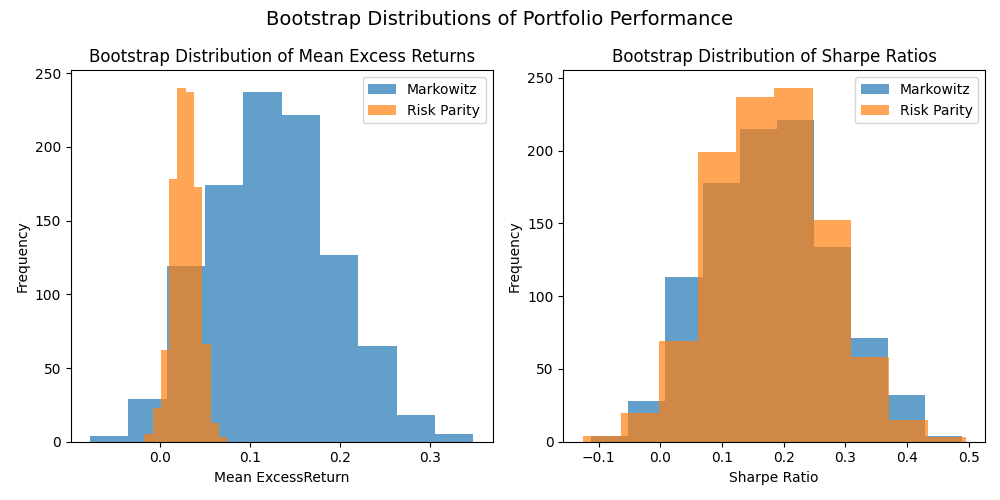
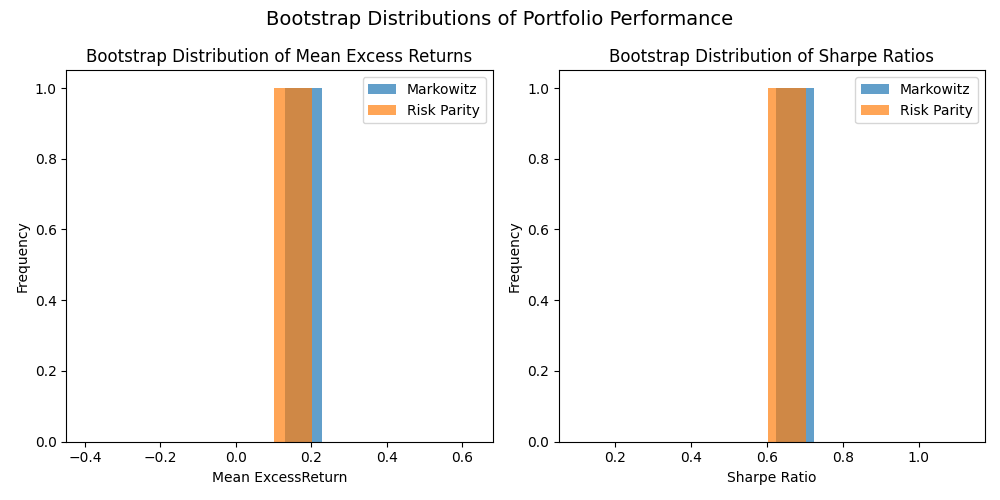
small changes

diff --git a/bootstrap_strategies.py b/bootstrap_strategies.py
@@ -8,13 +8,22 @@ from risk_parity import risk_parity
 
 from markowitz import markowitz_historical, returns_to_value
 
-EU_data = pd.read_csv("csv_files/EXPORT EU EUR.csv")
+allow_short = False
+
+EU_data = pd.read_csv("csv_files/long_EXPORT EU EUR.csv")
+
+US_data = pd.read_csv("csv_files/long_EXPORT US EUR.csv")
+
+if allow_short:
+    EU_data = pd.read_csv("csv_files/EXPORT EU EUR.csv")
+
+    US_data = pd.read_csv("csv_files/EXPORT US EUR.csv")
 
 def annualizer(mean_return, type, periods_per_year = 12):
     if type == "return":
         return (1 + mean_return/100) ** periods_per_year - 1
     if type == "volatility":
-        return mean_return * periods_per_year
+        return mean_return/100 * np.sqrt(periods_per_year)
 
 
 def block_bootstrap(df, n_bootstrap=1000, block_length=12, random_state=None):
@@ -36,49 +45,87 @@ def block_bootstrap(df, n_bootstrap=1000, block_length=12, random_state=None):
 
 # Assuming your previous setup & functions (block_bootstrap, markowitz_historical, risk_parity) are defined
 
-n_bootstrap = 1000
-boot_samples = block_bootstrap(EU_data, n_bootstrap=n_bootstrap, block_length=12, random_state=42)
+# -------- Set parameters -------
 
-mean_markowitz, variance_markowitz, sharpe_markowitz = [], [], []
-mean_risk_parity, variance_risk_parity, sharpe_risk_parity = [], [], []
+n_bootstrap = 300
 
 window = 36
-n_points = 3
-factors = True, True, True
+n_points = 10
+include_US = True
+
+# --------------------------------
+
+boot_EU = block_bootstrap(EU_data, n_bootstrap=n_bootstrap, block_length=12, random_state=42)
+
+boot_US = block_bootstrap(US_data, n_bootstrap=n_bootstrap, block_length=12, random_state=42)
+
+mean_markowitz, std_markowitz, sharpe_markowitz = [], [], []
+mean_risk_parity, std_risk_parity, sharpe_risk_parity = [], [], []
+mean_market, std_market, sharpe_market = [], [], []
+
 
 for i in range(n_bootstrap):
     print(f"Processing bootstrap sample {i+1}/{n_bootstrap}", end='\r')
 
-    portfolios = list(boot_samples[i].columns[5:36])
-    marko_data = boot_samples[i][portfolios]    
-    marko_returns = markowitz_historical(marko_data, window, n_points=n_points)
+    portfolios = list(boot_EU[i].columns[5:36])
+    EU_marko = boot_EU[i][portfolios]   
+    US_marko = boot_US[i][portfolios] 
 
-    rp_returns = risk_parity(boot_samples[i], window, *factors)['return']
+    if include_US:
+        marko_data = pd.concat([EU_marko,US_marko],axis = 1)
+    
+    if not include_US:
+        marko_data = EU_marko
+
+    marko_returns = markowitz_historical(marko_data, window, n_points=n_points, allow_short= allow_short)
+
+    rp_returns = risk_parity(boot_EU[i],boot_US[i], "EU", "US", window = window, include_market2 = include_US,
+                             has_MOM1 = True,has_SMB1 = True,has_RM_RF1 = True, has_MOM2 = include_US, has_SMB2 = include_US, has_RM_RF2 = include_US)['return']
+
+
+    market_returns = boot_EU[i]['RM_RF']
 
     # --- Markowitz ---
     mean_markowitz.append(annualizer(np.mean(marko_returns), type="return"))
-    variance_markowitz.append(annualizer(np.var(marko_returns), type="volatility"))
-    sharpe_markowitz.append(np.mean(marko_returns) / np.std(marko_returns))
+    std_markowitz.append(annualizer(np.std(marko_returns), type="volatility"))
 
     # --- Risk Parity ---
     mean_risk_parity.append(annualizer(np.mean(rp_returns), type="return"))
-    variance_risk_parity.append(annualizer(np.var(rp_returns), type="volatility"))
-    sharpe_risk_parity.append(np.mean(rp_returns) / np.std(rp_returns))
+    std_risk_parity.append(annualizer(np.std(rp_returns), type="volatility"))
+
+    # --- Market ---
+    mean_market.append(annualizer(np.mean(market_returns), type="return"))
+    std_market.append(annualizer(np.std(market_returns), type="volatility"))
+
+    
+
+sharpe_markowitz = np.array(mean_markowitz)/np.array(std_markowitz)
+
+sharpe_risk_parity = np.array(mean_risk_parity)/np.array(std_risk_parity)
+
+sharpe_market = np.array(mean_market)/np.array(std_market)
+
+if allow_short:
+    print("Shorting was allowed")
+
+if not allow_short:
+    print("Shorting was not allowed")
+
 
 # --- Summary Table ---
 summary_df = pd.DataFrame({
-    "Strategy": ["Markowitz", "Risk Parity"],
-    "Mean Excess Return (annualized)": [np.mean(mean_markowitz), np.mean(mean_risk_parity)],
-    "Variance": [np.mean(variance_markowitz), np.mean(variance_risk_parity)],
-    "Sharpe Ratio": [np.mean(sharpe_markowitz), np.mean(sharpe_risk_parity)]
+    "Strategy": ["Markowitz", "Risk Parity", "European Market"],
+    "Mean Excess Return": [np.mean(mean_markowitz), np.mean(mean_risk_parity), np.mean(mean_market)],
+    "Standard deviation": [np.mean(std_markowitz), np.mean(std_risk_parity), np.mean(std_market)],
+    "Sharpe Ratio": [np.mean(sharpe_markowitz), np.mean(sharpe_risk_parity), np.mean(sharpe_market)]
 })
 
 # --- Pretty Formatting ---
-summary_df["Mean Return"] = summary_df["Mean Excess Return (annualized)"].map("{:.6f}".format)
-summary_df["Variance"] = summary_df["Variance"].map("{:.6f}".format)
+summary_df["Mean Excess Return"] = summary_df["Mean Excess Return"].map("{:.6f}".format)
+summary_df["Standard deviation"] = summary_df["Standard deviation"].map("{:.6f}".format)
 summary_df["Sharpe Ratio"] = summary_df["Sharpe Ratio"].map("{:.3f}".format)
 
-print("\nBootstrap Portfolio Performance Summary")
+print("\nBootstrap Portfolio Performance Summary (annualized)")
 print(summary_df.to_string(index=False))
 
 
@@ -110,7 +157,7 @@ axes[1].legend()
 plt.suptitle("Bootstrap Distributions of Portfolio Performance", fontsize=14)
 plt.tight_layout()
 plt.savefig("bootstrap_histograms.png")
-plt.show()
+#plt.show()
 
 
 
@@ -120,16 +167,29 @@ plt.show()
 fig, axes = plt.subplots(1, 2, figsize=(10, 5))
 
 # Mean returns boxplot
-axes[0].boxplot([mean_markowitz, mean_risk_parity], labels=["Markowitz", "Risk Parity"])
+boxplot_kwargs = {}
+try:
+    # Matplotlib 3.9+ uses 'tick_labels'
+    axes[0].boxplot.__call__
+    boxplot_kwargs['tick_labels'] = ["Markowitz", "Risk Parity"]
+except Exception:
+    # Fallback for older Matplotlib versions
+    boxplot_kwargs['labels'] = ["Markowitz", "Risk Parity"]
+axes[0].boxplot([mean_markowitz, mean_risk_parity], **boxplot_kwargs)
 axes[0].set_title("Distribution of Mean Excess Returns")
 axes[0].set_ylabel("Mean ExcessReturn")
 
 # Variance boxplot
-axes[1].boxplot([sharpe_markowitz, sharpe_risk_parity], labels=["Markowitz", "Risk Parity"])
+boxplot_kwargs = {}
+try:
+    boxplot_kwargs['tick_labels'] = ["Markowitz", "Risk Parity"]
+except Exception:
+    boxplot_kwargs['labels'] = ["Markowitz", "Risk Parity"]
+axes[1].boxplot([sharpe_markowitz, sharpe_risk_parity], **boxplot_kwargs)
 axes[1].set_title("Distribution of Sharpe Ratios")
 axes[1].set_ylabel("Sharpe Ratio")
 
-plt.suptitle("Bootstrap Distributions of Portfolio Performance", fontsize=14)
+plt.suptitle("Bootstrap Boxplots of Portfolio Performance", fontsize=14)
 plt.tight_layout()
-plt.savefig("bootstrap_distributions.png")
-plt.show()
+plt.savefig("bootstrap_boxplots.png")
+#plt.show()

diff --git a/strategy_comparison_plot.py b/strategy_comparison_plot.py
@@ -88,6 +88,8 @@ def result_plot(EU_data, US_data, window, n_points, markowitz_short = False, nam
     plt.legend()
     plt.savefig(f"result_plot_{name}.png")
     #plt.show()
+
+    return markowitz_returns, risk_parity_returns, market_returns
     
 
 window = 36
@@ -102,10 +104,28 @@ US_data_long = pd.read_csv("csv_files/long_EXPORT US EUR.csv")
 
 #result_plot(EU_data, US_data, window, n_points, data = "both", baseline_market= "EU", name = "Both Markets")
 
-result_plot(EU_data_long, US_data_long, window, n_points, data = "EU", baseline_market= "EU", name = "long only")
+markowitz_returns, risk_parity_returns, market_returns = result_plot(EU_data_long, US_data_long, window, n_points, data = "both", baseline_market= "EU", name = "long only")
 
+def summarize_strategies(markowitz_returns, risk_parity_returns, market_returns):    
+    strategies = {
+        "Markowitz": markowitz_returns,
+        "Risk Parity": risk_parity_returns,
+        "Market": market_returns
+    }
+    
+    data = []
+    for name, returns in strategies.items():
+        mean = np.mean(returns)
+        std = np.std(returns)
+        sharpe = (mean) / std if std != 0 else np.nan
+        data.append([mean, std, sharpe])
+    
+    summary = pd.DataFrame(data, columns=["Mean", "Std", "Sharpe"], index=strategies.keys())
+    return summary
 
+summary_table = summarize_strategies(markowitz_returns, risk_parity_returns, market_returns)
+print(summary_table)
 
-result_plot(EU_data, US_data, window, n_points, markowitz_short= True, data = "EU", baseline_market= "EU", name = "short allowed")
+# result_plot(EU_data, US_data, window, n_points, markowitz_short= True, data = "EU", baseline_market= "EU", name = "short allowed")
 
 # result_plot(EU_data, US_data, window, n_points, data = "both", baseline_market= "EU", has_SMB1=False, has_SMB2= False, has_MOM2= False, name = "noSMB_noMOMUS")

diff --git a/markowitz.py b/markowitz.py
@@ -100,8 +100,8 @@ def efficient_frontier(mean_return, cov_matrix, n_points=150, allow_short = Fals
                 frontier_returns.append(port_return)
                 frontier_variance.append(np.sqrt(port_var))
                 frontier_weights.append(w)
-            else:
-                print(f"Optimization failed for target return {mu:.4f}: {res.message}")
+            # else:
+            #     print(f"Optimization failed for target return {mu:.4f}: {res.message}")
     if not allow_short:
         for mu in target_returns:
             res = markowitz_optimizer(mean_return, cov_matrix, mu, direction="min")
@@ -112,8 +112,8 @@ def efficient_frontier(mean_return, cov_matrix, n_points=150, allow_short = Fals
                 frontier_returns.append(port_return)
                 frontier_variance.append(np.sqrt(port_var))
                 frontier_weights.append(w)
-            else:
-                print(f"Optimization failed for target return {mu:.4f}: {res.message}")
+            # else:
+            #     print(f"Optimization failed for target return {mu:.4f}: {res.message}")
 
     return np.array(frontier_variance), np.array(frontier_returns), np.array(frontier_weights)
 
